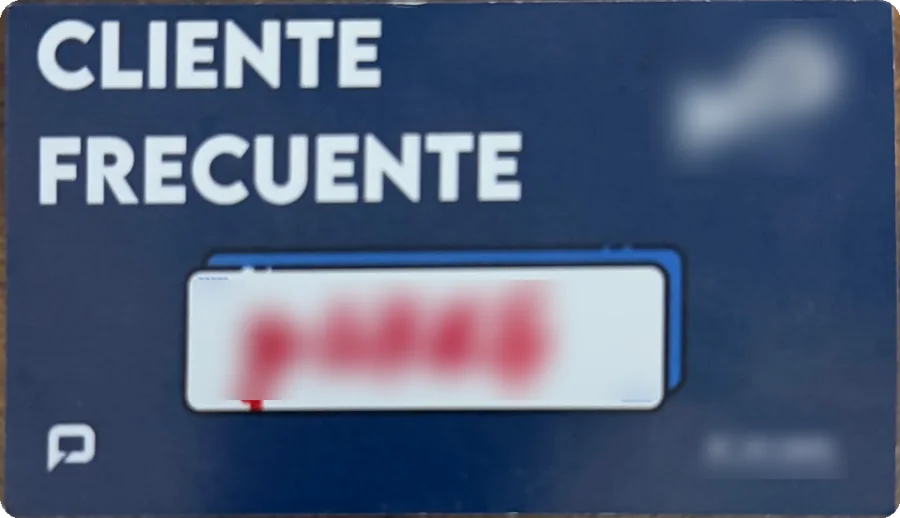
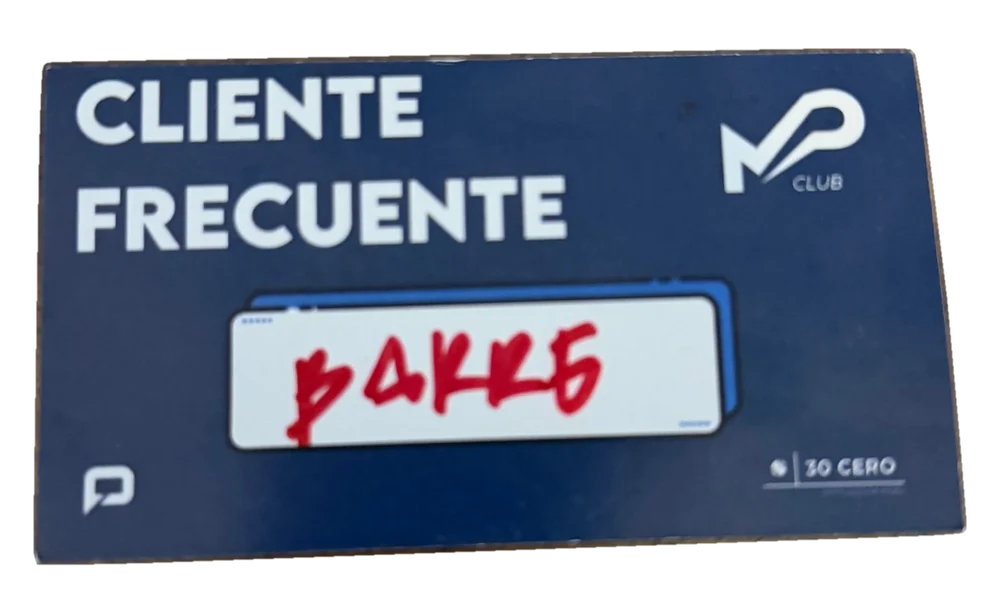
Italika: tarjeta física completa, recortada por su borde, como ejemplo de un club de pádel
Claude-Session: https://claude.ai/code/session_01GwZ9zEa6cZaQxoNx366wwp

diff --git a/src/data/stories/italika.ts b/src/data/stories/italika.ts
@@ -56,14 +56,14 @@ export const italika: CaseStory = {
       heading: 'Primero, ver <em>cómo trabajaban.</em>',
       body: [
         'Fui al taller a ver cómo contactaban a sus clientes. Todo era manual: revisar el reporte, buscar el teléfono y escribir o llamar cliente por cliente para recordarle su servicio. Con miles de registros, el seguimiento dependía del tiempo libre del personal.',
-        'Y la lealtad vivía en una tarjeta de cartón con sellos a mano, como en muchos talleres.',
+        'Y así se maneja hoy la lealtad en muchos negocios: con una tarjeta de cartón y sellos a mano. Cosas físicas que se pierden.',
       ],
-      intro: { visuals: [{ type: 'flip-card', caption: 'Una tarjeta de lealtad física · marcas y datos difuminados', front: img('tarjeta-fisica-frente', 900, 518, 'Frente de una tarjeta de cliente frecuente de cartón, con un dato escrito a mano.'), back: img('tarjeta-fisica-reverso', 900, 518, 'Reverso de la tarjeta con círculos para sellos, tres marcados a mano con plumón.'), pains: [
+      intro: { visuals: [{ type: 'flip-card', caption: 'Ejemplo real: la tarjeta de lealtad de un club de pádel', front: img('tarjeta-fisica-frente', 1000, 614, 'Frente de una tarjeta de cliente frecuente de cartón de un club de pádel, con un nombre escrito a mano.'), back: img('tarjeta-fisica-reverso', 1000, 614, 'Reverso de la tarjeta con círculos para sellos, tres marcados a mano con plumón.'), pains: [
         'Se pierde, se moja o se queda en otra cartera.',
         'Un plumón basta para sumar un sello.',
         'Sin trazabilidad: nadie sabe qué servicio dio cada sello.',
         'No se puede medir quién está cerca del premio o quién dejó de venir.',
-        'El taller no puede avisarle a nadie: no hay un teléfono ligado a la tarjeta.',
+        'El negocio no puede avisarle a nadie: no hay un teléfono ligado a la tarjeta.',
       ] }], after: ['La decisión clave fue no pedirle a nadie instalar algo nuevo: el cliente ya vive en WhatsApp, y el personal también.'] },
       options: [
         { name: 'App propia para clientes', verdict: 'Descartada', reason: 'El perfil del cliente no está acostumbrado a descargar apps ni a usar Wallet.' },

diff --git a/src/styles/brand-chat.css b/src/styles/brand-chat.css
@@ -93,8 +93,8 @@
 /* ---------- Tarjeta física que gira con el scroll ---------- */
 .v-flip { display: grid; gap: 12px; min-width: 0; }
 .flip-sticky { display: grid; grid-template-columns: minmax(0, 1.1fr) minmax(0, 1fr); gap: 20px clamp(20px, 4vw, 40px); align-items: center; }
-.flip-card { position: relative; aspect-ratio: 900 / 518; perspective: 1400px; }
-.flip-card img { position: absolute; inset: 0; width: 100%; height: 100%; border-radius: 14px; box-shadow: 0 18px 40px rgb(0 0 0 / .35); }
+.flip-card { position: relative; aspect-ratio: 1000 / 614; perspective: 1400px; }
+.flip-card img { position: absolute; inset: 0; width: 100%; height: 100%; object-fit: contain; filter: drop-shadow(0 16px 24px rgb(0 0 0 / .4)); }
 .flip-pains { list-style: none; margin: 0; padding: 0; display: grid; gap: 10px; }
 .flip-pains li { position: relative; padding: 10px 0 10px 28px; border-bottom: 1px solid var(--color-border); font-size: 15px; line-height: 1.45; color: var(--color-text); }
 .flip-pains li::before { content: '✕'; position: absolute; left: 0; top: 10px; color: #ff4f5e; font: 600 14px/1.45 var(--font-mono); }
